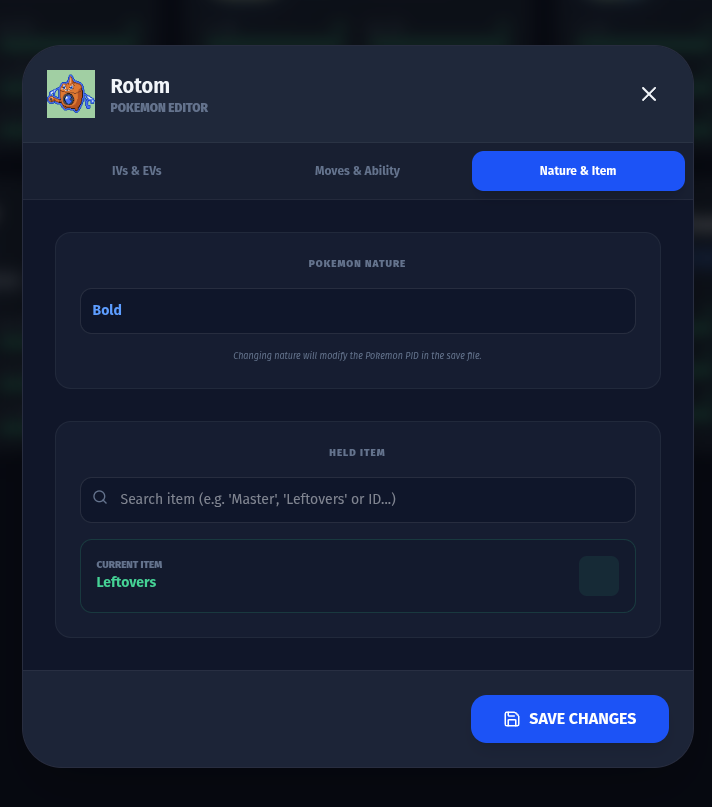
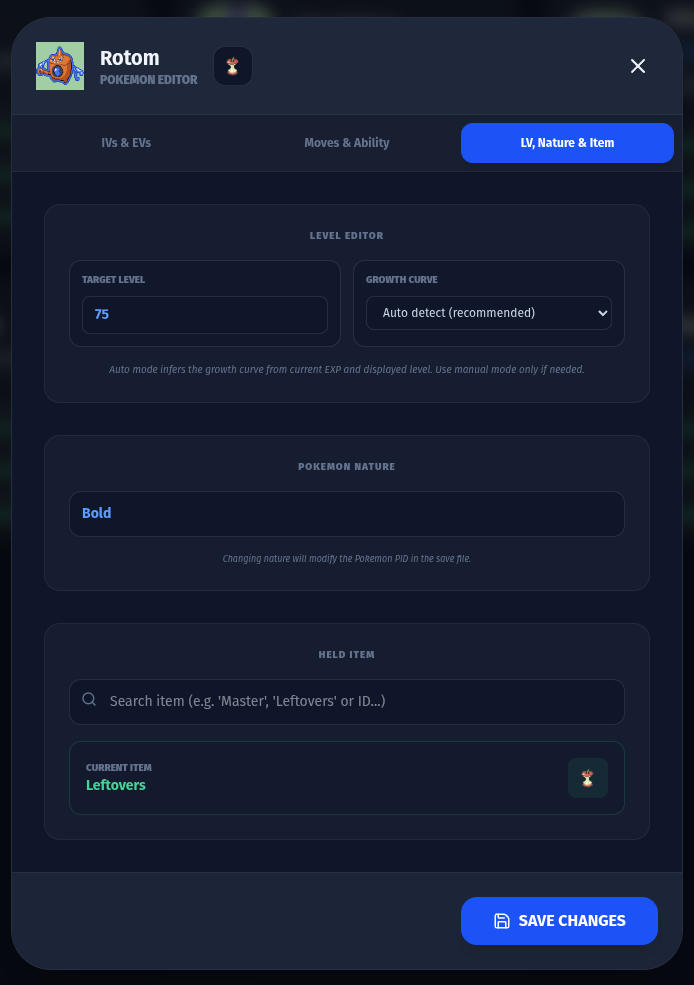
docs: update README and changelog for level editing workflow

diff --git a/CHANGELOG.md b/CHANGELOG.md
@@ -8,6 +8,9 @@
 - In-browser local save editing engine (`frontend/src/core/*`) for party, PC, bag, money, checksums, and save export.
 - GitHub Pages deployment workflow (`.github/workflows/deploy-pages.yml`) with SPA fallback support.
 - Maintainer/developer docs: save editing guide and frontend local migration spec.
+- Party level editing with growth-curve support (auto detection + manual override).
+- PC level editing in the Pokemon editor modal (manual growth-curve selection).
+- Shared frontend growth utilities for deterministic level-to-EXP conversion.
 
 ### Changed
 
@@ -16,6 +19,8 @@
 - Item icon resolution now prioritizes `backend/icons/items/Base Items/` before other item icon folders.
 - TM item naming data updated to include type suffixes (for example `TM01: Focus Punch - Fighting`).
 - README updated for frontend-first runtime model, simplified local run instructions, and compact maintainer deployment notes.
+- Pokemon editor tab renamed from `Nature & Item` to `LV, Nature & Item`.
+- Backend party payload now includes `exp` to support level workflows.
 
 ### Fixed
 

diff --git a/README.md b/README.md
@@ -40,7 +40,7 @@ Edit moves and ability slot selection.
 
 ![Pokemon edit moves](backend/readme_images/pokemon_edit_moves.png)
 
-Edit nature and held item in the same modal flow.
+Edit level, nature and held item in the same modal flow.
 
 ![Pokemon edit nature and item](backend/readme_images/pokemon_edit_nature_item.png)
 
